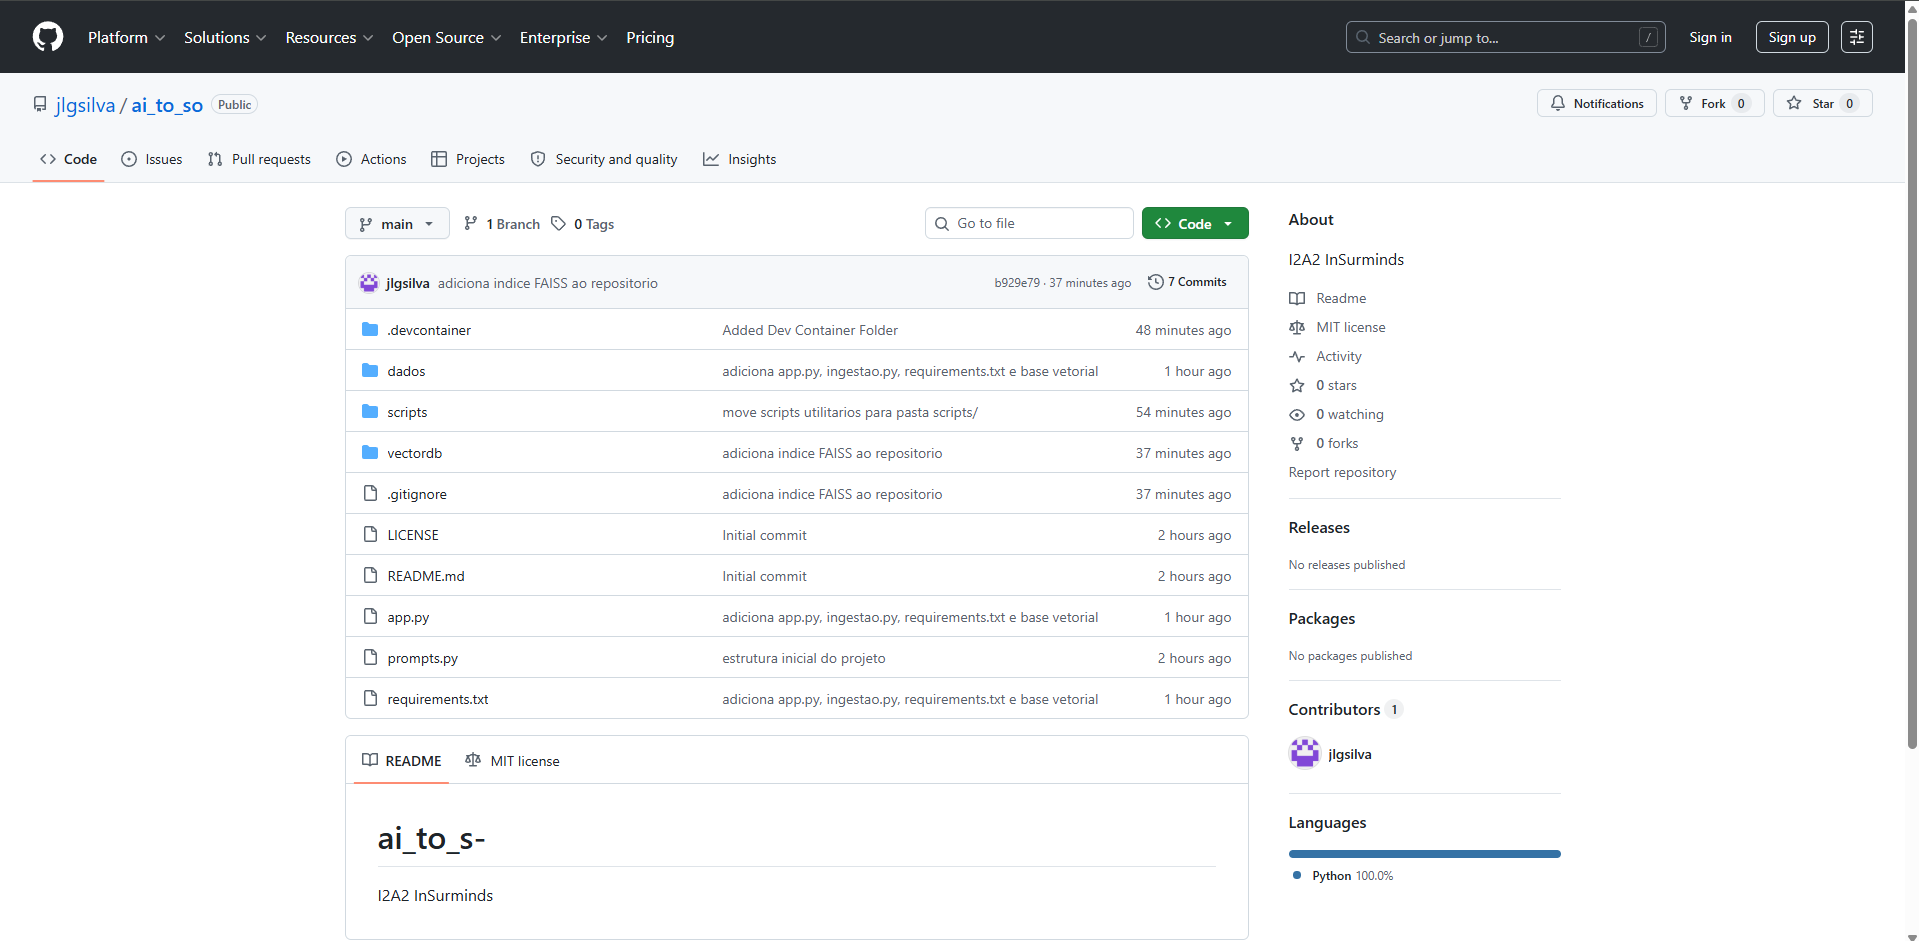
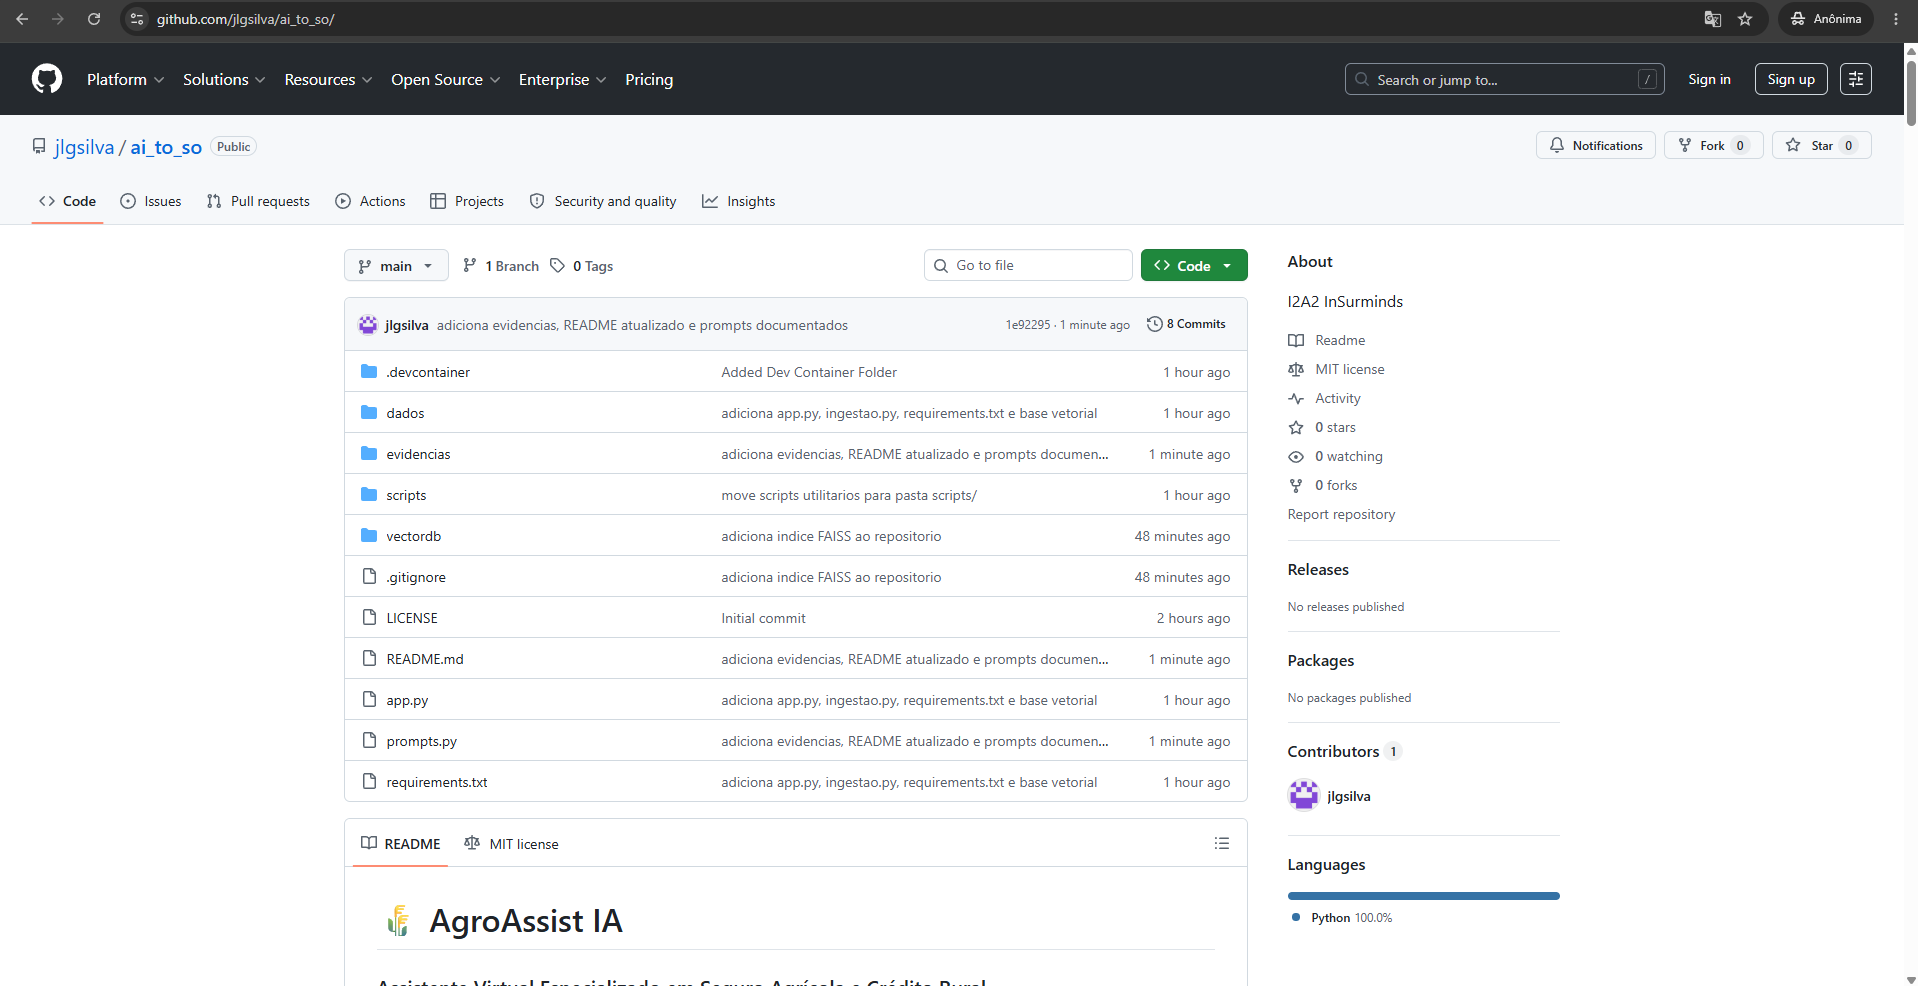
atualiza README e EVIDENCIAS para refletir capturas realizadas

diff --git a/evidencias/EVIDENCIAS.md b/evidencias/EVIDENCIAS.md
@@ -1,209 +1,119 @@
 # 📸 Evidências de Execução — AgroAssist IA
 
-Este documento descreve as evidências de execução do chatbot AgroAssist IA,
-organizadas por cenário de teste. Cada evidência demonstra um aspecto distinto
-da solução implementada.
+Registro das capturas de tela realizadas durante os testes do chatbot online.
+Todas as evidências foram coletadas a partir da URL pública:
+**https://agro-assist-seguro-rural.streamlit.app/**
 
 ---
 
-## 🖥️ Acesso ao Chatbot
-
-**URL pública:** https://agro-assist-seguro-rural.streamlit.app/
-
----
-
-## Evidência 01 — Interface Inicial e Boas-vindas
+## 01 — Interface Inicial
 
 **Arquivo:** `01_interface_inicial.png`
 
-**O que demonstra:**
-- Interface do AgroAssist IA carregada com sucesso no Streamlit Cloud
-- Mensagem de boas-vindas personalizada
-- Painel de exemplos de perguntas expandido
-- Aviso legal no rodapé
-
-**Pergunta utilizada:** *(nenhuma — apenas a tela inicial)*
+Exibe a interface do AgroAssist IA carregada com sucesso no Streamlit Cloud,
+com mensagem de boas-vindas personalizada, painel de exemplos de perguntas
+expandido e aviso legal no rodapé.
 
 ---
 
-## Evidência 02 — Dúvida Geral com Citação de Fonte Oficial
+## 02 — Dúvida Geral: PSR
 
 **Arquivo:** `02_duvida_geral_PSR.png`
 
-**O que demonstra:**
-- Fluxo de dúvida geral funcionando via RAG
-- Recuperação de contexto de documentos oficiais
-- Citação de fonte ao final da resposta
-- Resposta tecnicamente correta sobre política pública
+**Pergunta:** *"O que é o PSR e quem tem direito à subvenção?"*
 
-**Pergunta utilizada:**
-> "O que é o PSR e quem tem direito à subvenção?"
+O assistente recuperou contexto do **Guia dos Seguros Rurais (CNA/MAPA)** e do
+**Estudo Técnico sobre Seguro Rural no Mundo**, explicando que o PSR foi
+operacionalizado a partir de 2006, que a subvenção é solicitada pela própria
+seguradora junto ao DEGER/MAPA e que a concessão é condicionada à situação
+cadastral do produtor e à disponibilidade de recursos orçamentários.
 
-**Fonte esperada na resposta:** Guia dos Seguros Rurais — CNA/MAPA ou Lei 10.823/2003
+📚 Fontes citadas: Guia dos Seguros Rurais — CNA/MAPA · Seguro Rural no Mundo — Estudo Técnico
 
 ---
 
-## Evidência 03 — PROAGRO com Base Regulatória
+## 03 — PROAGRO vs Seguro Agrícola Privado
 
 **Arquivo:** `03_proagro_resolucao_bacen.png`
 
-**O que demonstra:**
-- Recuperação de contexto da Resolução BACEN 4.418 (regulamentação do PROAGRO)
-- Resposta baseada em norma regulatória, não em conhecimento genérico do LLM
-- Diferenciação entre PROAGRO e seguro rural privado
+**Pergunta:** *"Qual a diferença entre o PROAGRO e o seguro agrícola privado?"*
 
-**Pergunta utilizada:**
-> "Qual a diferença entre o PROAGRO e o seguro agrícola privado?"
+Resposta baseada em fontes regulatórias e técnicas, diferenciando os dois
+instrumentos em 5 dimensões: financiamento (público vs. privado), custo,
+amplitude de cobertura, requisitos de adesão e estrutura de administração.
+O assistente recuperou contexto de 5 fontes distintas simultaneamente.
+
+📚 Fontes citadas: Modelagens Atuariais — Seguro Agrícola · Seguro Rural no Mundo — Estudo Técnico · Base de Conhecimento AgroAssist · Capacitação de Peritos Rurais — Manual · Guia dos Seguros Rurais — CNA/MAPA
 
 ---
 
-## Evidência 04 — Fluxo Guiado de Sinistro
+## 04 — Fluxo Guiado de Sinistro
 
 **Arquivo:** `04_fluxo_sinistro_guiado.png`
 
-**O que demonstra:**
-- Classificação de intenção identificando "sinistro"
-- Fluxo conversacional guiado com coleta progressiva de informações
-- Orientação sobre prazos de comunicação (ponto crítico em seguros)
-- Tom acolhedor adequado a momento de estresse do produtor
+**Pergunta:** *"Perdi minha lavoura de soja por granizo ontem. O que devo fazer?"*
 
-**Pergunta utilizada:**
-> "Perdi minha lavoura de soja por granizo ontem. O que devo fazer?"
+O classificador de intenção identificou o evento como sinistro e ativou o fluxo
+guiado. O assistente orientou o produtor em 5 passos estruturados: verificação
+da apólice, coleta de evidências (fotos, data, localização), comunicação à
+seguradora, envio de documentos e acompanhamento da análise. Reforçou a
+criticidade do prazo de comunicação.
 
----
-
-## Evidência 05 — Fluxo Guiado de Cotação
-
-**Arquivo:** `05_fluxo_cotacao_guiado.png`
-
-**O que demonstra:**
-- Classificação de intenção identificando "cotação"
-- Coleta estruturada: cultura → município → área → financiamento
-- Encaminhamento adequado para corretor habilitado
-- Informação sobre tipos de cobertura disponíveis
-
-**Pergunta utilizada:**
-> "Quero fazer um seguro para minha lavoura de milho no Mato Grosso"
+📚 Fontes citadas: Manual de Comercialização Agrícola — Swiss Re · Capacitação de Peritos Rurais — Manual · Resolução BACEN 4.418 — PROAGRO · Modelagens Atuariais — Seguro Agrícola
 
 ---
 
-## Evidência 06 — Guardrail: Pergunta Fora do Escopo
+## 05 — Guardrail: Pergunta Fora do Escopo
 
-**Arquivo:** `06_guardrail_fora_escopo.png`
+**Arquivo:** `05_guardrail_fora_escopo.png`
 
-**O que demonstra:**
-- Identificação correta de pergunta fora do domínio do assistente
-- Redirecionamento educado sem tentar responder inadequadamente
-- Oferta de ajuda dentro do escopo especializado
-- Maturidade de engenharia: o sistema sabe o que não sabe
+**Pergunta:** *"Quero fazer um seguro de carro, quanto custa?"*
 
-**Pergunta utilizada:**
-> "Quero fazer um seguro de carro, quanto custa?"
+O guardrail funcionou corretamente: o assistente recusou responder sobre seguro
+de automóvel, explicou seu escopo especializado em seguros agrícolas e rurais,
+e redirecionou o usuário para a SUSEP. A citação de fonte apontou para
+documentos de seguro rural — confirmando que o RAG não contém informações sobre
+seguros de automóvel e que nenhuma resposta foi inventada.
 
----
-
-## Evidência 07 — Resposta com Múltiplas Fontes
-
-**Arquivo:** `07_multiplas_fontes.png`
-
-**O que demonstra:**
-- Recuperação de contexto de múltiplos documentos simultaneamente (k=6)
-- Síntese de informações de fontes distintas em resposta coerente
-- Citação de múltiplas fontes na resposta
-- Capacidade do RAG de cruzar informações de documentos diferentes
-
-**Pergunta utilizada:**
-> "Quais são os requisitos para um perito realizar vistoria de sinistro agrícola?"
+📚 Fontes citadas: Seguro Rural no Mundo — Estudo Técnico · Boletim IRB+ Mercado · Guia dos Seguros Rurais — CNA/MAPA · Manual de Comercialização Agrícola — Swiss Re
 
 ---
 
-## Evidência 08 — Crédito Rural e Obrigatoriedade do Seguro
+## 06 — Resposta com Múltiplas Fontes
 
-**Arquivo:** `08_credito_rural_seguro_obrigatorio.png`
+**Arquivo:** `06_multiplas_fontes.png`
 
-**O que demonstra:**
-- Resposta sobre tema técnico-regulatório (MCR — Manual de Crédito Rural)
-- Distinção entre seguro obrigatório e facultativo no financiamento rural
-- Base em resolução do Banco Central (CMN 4.902/2021 ou CMN 5.220/2025)
+**Pergunta:** *"Quais são os requisitos para um perito realizar vistoria de sinistro agrícola?"*
 
-**Pergunta utilizada:**
-> "O seguro é obrigatório quando contrato um financiamento rural pelo Pronaf?"
+Resposta baseada no **Manual de Capacitação de Peritos Rurais**, detalhando:
+gestão de capacidade em períodos concentrados de colheita, esclarecimento de
+dúvidas metodológicas ao segurado, determinação de percurso em colheita
+mecanizada e procedimentos em caso de discordância sobre a metodologia.
 
----
-
-## Evidência 09 — Pipeline de Ingestão RAG (execução local)
-
-**Arquivo:** `09_pipeline_ingestao.png`
-
-**O que demonstra:**
-- Execução do script `ingestao.py` no Spyder
-- Carregamento de 11 PDFs + FAQ JSON
-- Geração de 1.106 chunks
-- Criação e salvamento do índice FAISS
-- Teste automático de recuperação ao final
-
-**Como capturar:** Screenshot do terminal do Spyder com o output completo do `ingestao.py`
+📚 Fontes citadas: Capacitação de Peritos Rurais — Manual · Guia dos Seguros Rurais — CNA/MAPA
 
 ---
 
-## Evidência 10 — Geração de FAQ Sintética (execução local)
+## 07 — Crédito Rural e Obrigatoriedade do Seguro
 
-**Arquivo:** `10_geracao_faq_sintetica.png`
+**Arquivo:** `07_credito_rural_seguro_obrigatorio.png`
 
-**O que demonstra:**
-- Execução do script `gerar_faq.py` no Spyder
-- Geração de pares Q&A via LLM para 5 categorias temáticas
-- Metodologia de dados sintéticos para enriquecimento da base
+**Pergunta:** *"O seguro é obrigatório quando contrato um financiamento rural pelo Pronaf?"*
 
-**Como capturar:** Screenshot do terminal do Spyder com o output do `gerar_faq.py`
+O assistente confirmou a obrigatoriedade do seguro de custeio no Pronaf,
+orientando o produtor a verificar as condições específicas do financiamento
+e as exigências da linha de crédito contratada.
+
+📚 Fontes citadas: Base de Conhecimento AgroAssist · Projeto de Lei — Fundo de Cobertura Suplementar · Capacitação de Peritos Rurais — Manual
 
 ---
 
-## Evidência 11 — Repositório GitHub
+## 08 — Repositório GitHub
 
-**Arquivo:** `11_repositorio_github.png`
+**Arquivo:** `08_repositorio_github.png`
 
-**O que demonstra:**
-- Estrutura completa do projeto versionada no GitHub
-- Organização profissional das pastas (dados, scripts, vectordb, evidencias)
-- Histórico de commits documentando a evolução do desenvolvimento
+Estrutura completa do projeto versionada no GitHub (`jlgsilva/ai_to_so`),
+com organização profissional das pastas (`dados/`, `scripts/`, `vectordb/`,
+`evidencias/`) e histórico de commits documentando a evolução do desenvolvimento.
 
 **URL:** https://github.com/jlgsilva/ai_to_so
-
----
-
-## Evidência 12 — App Online no Streamlit Cloud
-
-**Arquivo:** `12_streamlit_cloud_deploy.png`
-
-**O que demonstra:**
-- Dashboard do Streamlit Cloud com o app deployado
-- Status "Running" confirmando disponibilidade pública
-- Integração com repositório GitHub (CI/CD automático)
-
----
-
-## 📋 Checklist de Capturas
-
-| # | Evidência | Capturado? |
-|---|---|---|
-| 01 | Interface inicial | ☐ |
-| 02 | Dúvida geral — PSR | ☐ |
-| 03 | PROAGRO — base regulatória | ☐ |
-| 04 | Fluxo sinistro guiado | ☐ |
-| 05 | Fluxo cotação guiado | ☐ |
-| 06 | Guardrail fora de escopo | ☐ |
-| 07 | Múltiplas fontes | ☐ |
-| 08 | Crédito rural obrigatoriedade | ☐ |
-| 09 | Pipeline ingestão RAG | ☐ |
-| 10 | Geração FAQ sintética | ☐ |
-| 11 | Repositório GitHub | ☐ |
-| 12 | Deploy Streamlit Cloud | ☐ |
-
----
-
-## 💡 Dica para as capturas
-
-Use **Windows + Shift + S** para captura parcial da tela no Windows.
-Salve todos os arquivos nesta pasta (`evidencias/`) com os nomes indicados acima
-antes de fazer o `git push` final.

diff --git a/README.md b/README.md
@@ -334,7 +334,7 @@ streamlit run app.py
 
 Desenvolvido por **Jefferson L. G. Silva** como atividade prática do programa
 **InsurMinds | Inteligência Artificial Aplicada a Seguros**
-I2A2 – Instituto de Inteligência Artificial Aplicada · Latin Re · Grupo FIT
+I2A2 – Instituto de Inteligência Artificial Aplicada
 
 ---
 